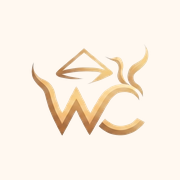
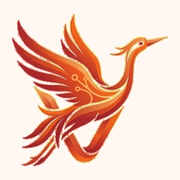
feat: add application branding assets and initial shared UI components

diff --git a/src/components/shared/SiteHeader.tsx b/src/components/shared/SiteHeader.tsx
@@ -14,10 +14,10 @@ import LanguageSwitcher from '../../i18n/LanguageSwitcher';
 function Logo({ badge }: { badge?: string }) {
   return (
     <Link
-      to={ROUTES.MARKETPLACE}
+      to={ROUTES.HOME}
       className="flex items-center gap-1.5 text-xl text-slate-900 cursor-pointer select-none shrink-0 outline-none"
     >
-      <Wordmark />
+      <Wordmark icon />
       {badge && (
         <span className="hidden sm:inline-flex text-[9px] font-bold bg-primary/10 text-primary px-2 py-0.5 rounded-full uppercase tracking-wide">
           {badge}
@@ -167,12 +167,23 @@ export default function SiteHeader({ variant = 'app' }: SiteHeaderProps) {
 
           <div className="hidden md:flex items-center gap-3 shrink-0">
             <LanguageSwitcher />
-            <button
-              className="bg-primary text-white font-inter font-medium text-sm px-5 py-2.5 rounded-full shadow-sm hover:bg-primary/90 transition-all cursor-pointer"
-              onClick={openLoginModal}
-            >
-              {t('header.login')}
-            </button>
+            {/* Đã đăng nhập → CTA tạo web (Link cho crawler); chưa → mở modal đăng nhập */}
+            {isAuthenticated ? (
+              <Link
+                to={ROUTES.MARKETPLACE}
+                className="flex items-center gap-1.5 bg-primary text-white font-inter font-medium text-sm px-5 py-2.5 rounded-full shadow-sm hover:bg-primary/90 transition-all cursor-pointer"
+              >
+                <Plus className="h-4 w-4" />
+                {t('header.createSite')}
+              </Link>
+            ) : (
+              <button
+                className="bg-primary text-white font-inter font-medium text-sm px-5 py-2.5 rounded-full shadow-sm hover:bg-primary/90 transition-all cursor-pointer"
+                onClick={openLoginModal}
+              >
+                {t('header.login')}
+              </button>
+            )}
           </div>
 
           <button
@@ -191,12 +202,23 @@ export default function SiteHeader({ variant = 'app' }: SiteHeaderProps) {
               <div className="flex justify-center pb-1">
                 <LanguageSwitcher dropDirection="up" />
               </div>
-              <button
-                className="w-full py-2.5 text-sm font-semibold bg-primary text-white rounded-full hover:bg-primary/90 transition-colors cursor-pointer"
-                onClick={() => { openLoginModal(); closeMobile(); }}
-              >
-                {t('header.login')}
-              </button>
+              {isAuthenticated ? (
+                <Link
+                  to={ROUTES.MARKETPLACE}
+                  onClick={closeMobile}
+                  className="w-full flex items-center justify-center gap-1.5 py-2.5 text-sm font-semibold bg-primary text-white rounded-full hover:bg-primary/90 transition-colors cursor-pointer"
+                >
+                  <Plus className="h-4 w-4" />
+                  {t('header.createSite')}
+                </Link>
+              ) : (
+                <button
+                  className="w-full py-2.5 text-sm font-semibold bg-primary text-white rounded-full hover:bg-primary/90 transition-colors cursor-pointer"
+                  onClick={() => { openLoginModal(); closeMobile(); }}
+                >
+                  {t('header.login')}
+                </button>
+              )}
             </div>
           </div>
         )}

diff --git a/src/components/shared/Wordmark.tsx b/src/components/shared/Wordmark.tsx
@@ -1,14 +1,32 @@
-// ─── Logo tạm thời dạng chữ "vngoweb", đặt 1 chỗ để dễ đổi khi có bộ nhận diện
-// thương hiệu chính thức, không phải sửa nhiều nơi ───
+// ─── Logo chính thức vngoweb — wordmark "VNGOWEB" dạng SVG vector (bộ nhận diện
+// chim hạc đỏ-cam). Cao theo em nên chỉnh cỡ bằng class text-* như chữ thường.
+// Nền tối truyền `inverted` để đổi sang bản trắng 1 màu; `icon` hiện thêm chim hạc. ───
 
 interface WordmarkProps {
   className?: string;
+  /** Hiện biểu tượng chim hạc trước phần chữ */
+  icon?: boolean;
+  /** Bản trắng 1 màu cho nền tối */
+  inverted?: boolean;
 }
 
-export default function Wordmark({ className = '' }: WordmarkProps) {
+export default function Wordmark({ className = '', icon = false, inverted = false }: WordmarkProps) {
   return (
-    <span className={`font-lexend font-extrabold tracking-tight ${className}`}>
-      vngo<span className="text-primary">web</span>
+    <span className={`inline-flex items-center gap-[0.3em] ${className}`}>
+      {icon && (
+        <img
+          src="/pwa-192.png"
+          alt=""
+          className="h-[1.5em] w-auto select-none"
+          width={192}
+          height={192}
+        />
+      )}
+      <img
+        src="/logo-wordmark.svg"
+        alt="vngoweb"
+        className={`h-[0.78em] w-auto select-none ${inverted ? 'brightness-0 invert' : ''}`}
+      />
     </span>
   );
 }

diff --git a/src/main.tsx b/src/main.tsx
@@ -4,8 +4,18 @@ import { RouterProvider } from 'react-router-dom';
 import { HelmetProvider } from 'react-helmet-async';
 import { AppProvider } from './store/AppContext';
 import { router } from './router';
+import { getTenantSlug } from './utils/tenant';
 import './i18n'; // init i18next TRƯỚC khi render — side-effect import, không cần Provider
 import './index.css';
+
+// PWA app chính: đăng ký SW scope gốc để đủ điều kiện installable (manifest ở
+// site.webmanifest). Tenant subdomain KHÔNG đăng ký ở đây — PublicSitePage tự
+// đăng ký theo scope riêng của từng site khách.
+if ('serviceWorker' in navigator && !getTenantSlug()) {
+  navigator.serviceWorker.register('/sw.js').catch(() => {
+    /* không chặn app nếu đăng ký SW thất bại (trình duyệt cũ, chặn quyền...) */
+  });
+}
 
 createRoot(document.getElementById('root')!).render(
   <StrictMode>

diff --git a/src/components/shared/LoginModal.tsx b/src/components/shared/LoginModal.tsx
@@ -66,9 +66,9 @@ export default function LoginModal({ onClose }: Props) {
           <div className="absolute -bottom-16 -left-16 w-52 h-52 rounded-full bg-red-950/50 blur-3xl pointer-events-none" />
 
           <div className="relative flex flex-col h-full p-8">
-            {/* Wordmark — inline để override màu trên nền tối */}
-            <p className="font-lexend font-extrabold tracking-tight text-[22px] text-white leading-none mb-2">
-              vngo<span className="text-orange-200">web</span>
+            {/* Wordmark bản trắng — logo đỏ/cam không đọc được trên nền gradient tối */}
+            <p className="text-[22px] leading-none mb-2">
+              <Wordmark inverted />
             </p>
             <p className="text-white/65 text-[13px] font-light leading-snug mb-8 pr-4">
               {t('login.headline')}

diff --git a/src/components/shared/SiteFooter.tsx b/src/components/shared/SiteFooter.tsx
@@ -33,8 +33,8 @@ export default function SiteFooter({ variant = 'app' }: SiteFooterProps) {
     return (
       <footer className="w-full py-10 px-6 flex flex-col md:flex-row justify-between items-center gap-6 border-t border-outline-variant/30 bg-surface-container-high">
         {/* Logo */}
-        <div className="flex items-center gap-1.5 opacity-70">
-          <Wordmark className="text-xl text-on-surface" />
+        <div className="flex items-center gap-1.5 opacity-80">
+          <Wordmark className="text-xl" />
         </div>
 
         {/* Copyright */}
@@ -76,7 +76,7 @@ export default function SiteFooter({ variant = 'app' }: SiteFooterProps) {
                 to={ROUTES.HOME}
                 className="flex items-center gap-2 text-2xl text-slate-900 cursor-pointer leading-none"
               >
-                <Wordmark />
+                <Wordmark icon />
               </Link>
               <div className="flex items-center gap-1.5 mt-1.5">
                 <Globe className="h-3.5 w-3.5 text-slate-400" />

diff --git a/index.html b/index.html
@@ -8,10 +8,14 @@
     <meta name="author" content="Nguyễn Văn Tú" />
     <meta name="robots" content="index, follow" />
     <link rel="canonical" href="https://vngoweb.com/" />
+    <link rel="icon" type="image/svg+xml" href="/favicon.svg" />
     <link rel="icon" type="image/png" sizes="512x512" href="/favicon.png" />
     <link rel="icon" type="image/png" sizes="256x256" href="/favicon-256.png" />
     <link rel="icon" href="/favicon.ico" sizes="any" />
     <link rel="apple-touch-icon" href="/apple-touch-icon.png" />
+    <!-- PWA app chính (site khách có manifest động riêng trong PublicSitePage) -->
+    <link rel="manifest" href="/site.webmanifest" />
+    <meta name="theme-color" content="#e8491f" />
 
     <!-- Open Graph -->
     <meta property="og:type" content="website" />